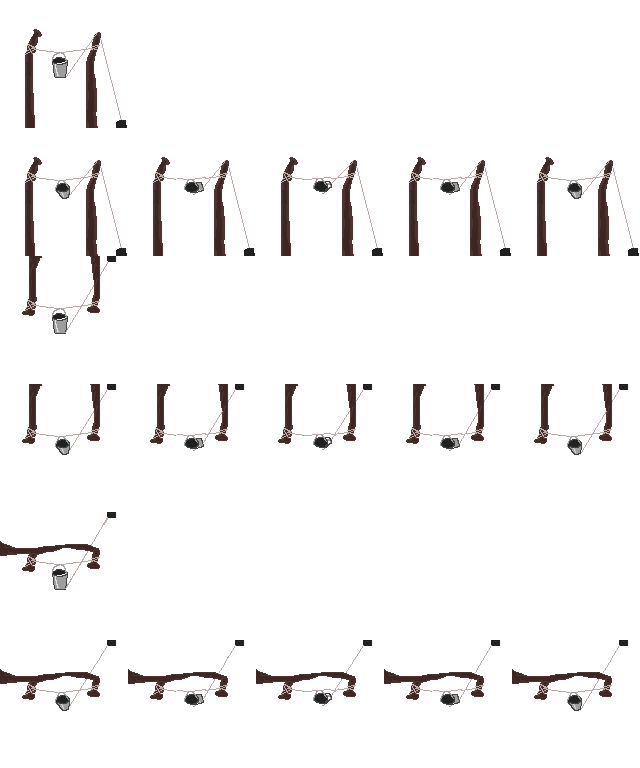
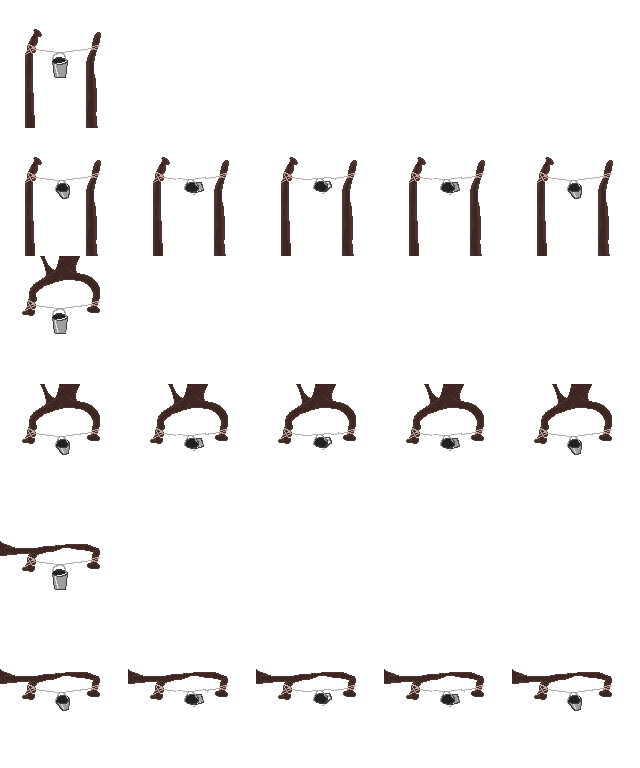
Fix left / right spawning (#27)

diff --git a/src/assets/tower_sprites.rs b/src/assets/tower_sprites.rs
@@ -78,7 +78,8 @@ impl TowerSprites {
     pub fn tower_bundle(&self, tower: &Tower, direction: &CellDirection) -> impl Bundle {
         let (image, atlas) = self.tower_sprite(tower);
 
-        let mut animation_controller = AnimationFrameQueue::new(direction.idle_frames(tower));
+        let idle_frames = direction.idle_frames(tower);
+        let mut animation_controller = AnimationFrameQueue::new(idle_frames);
 
         if tower == &Tower::Tesla || tower == &Tower::Water {
             animation_controller.set_override(direction.attack_frames(tower));
@@ -88,7 +89,10 @@ impl TowerSprites {
             Sprite {
                 image: image.clone(),
                 custom_size: Some(Vec2::splat(LEVEL_SCALING)),
-                texture_atlas: Some(TextureAtlas::from(atlas.clone())),
+                texture_atlas: Some(TextureAtlas {
+                    index: idle_frames[0],
+                    layout: atlas.clone(),
+                }),
                 ..default()
             },
             animation_controller,

diff --git a/src/level/resource.rs b/src/level/resource.rs
@@ -1,5 +1,4 @@
-use bevy::prelude::Transform;
-use bevy::{ecs::resource::Resource, math::Vec2, reflect::Reflect};
+use bevy::prelude::*;
 
 // Temporary hardcoded map until I pull the asset-loading changes
 pub const MAP_TEXT: &'static str = "^<<v<
@@ -54,13 +53,11 @@ impl CellDirection {
 
     pub fn sprite_offset(&self) -> Transform {
         match self {
-            /// Sprite is attached to cell above
             CellDirection::Up => Transform::from_xyz(0., -5., 0.),
-            /// Sprite is attached to cell below
             CellDirection::Down => Transform::from_xyz(0., 5., 0.),
-            /// Sprite is attached to cell to the left
-            CellDirection::Left => Transform::from_xyz(-5., 0., 0.),
-            /// Sprite is attached to cell to the right
+            CellDirection::Left => {
+                Transform::from_xyz(-5., 0., 0.).with_scale(Vec3::new(-1., 1., 1.))
+            }
             CellDirection::Right => Transform::from_xyz(5., 0., 0.),
         }
     }
